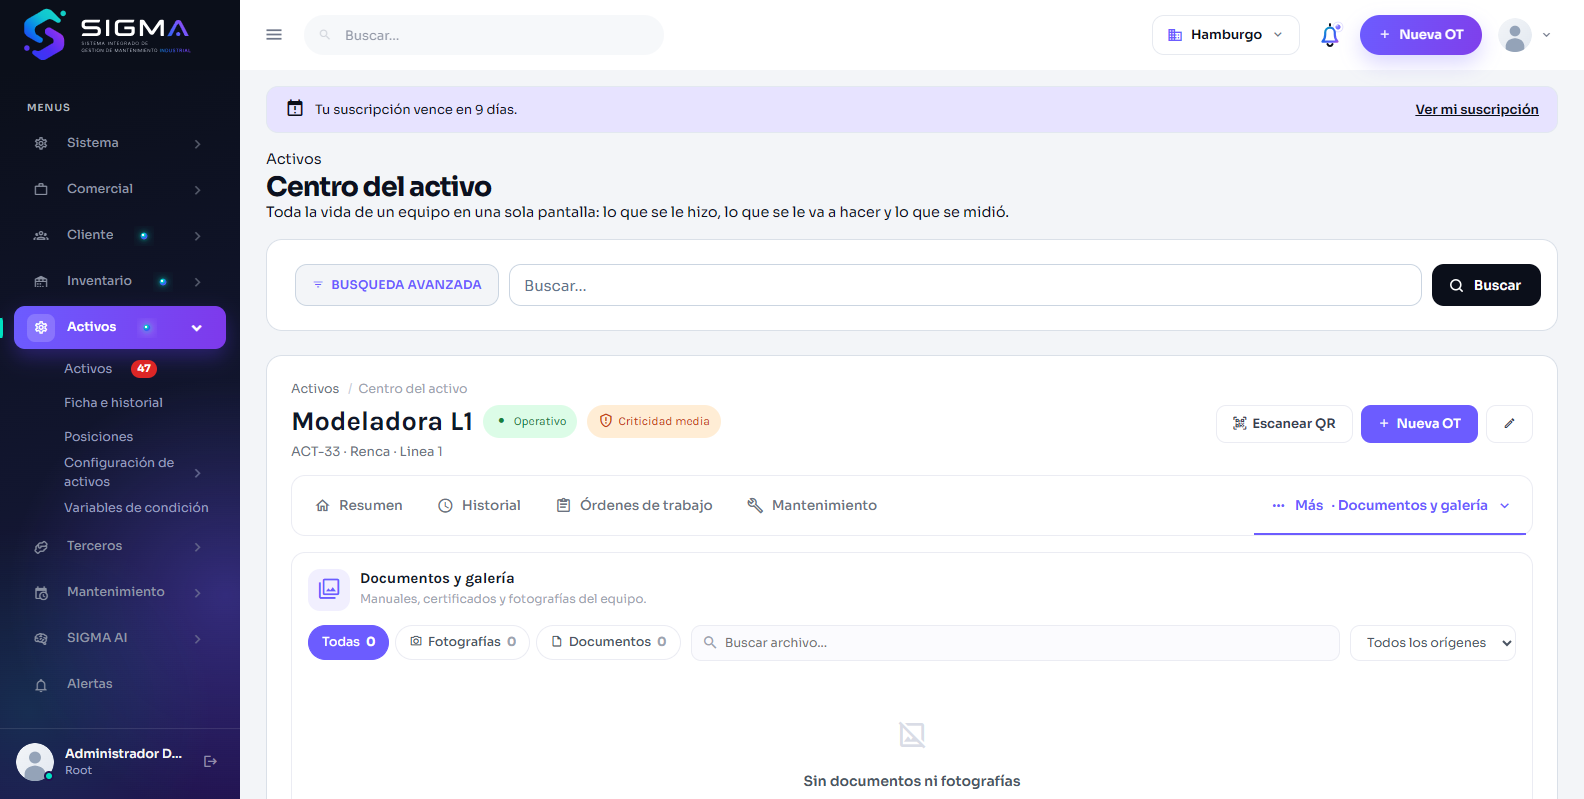
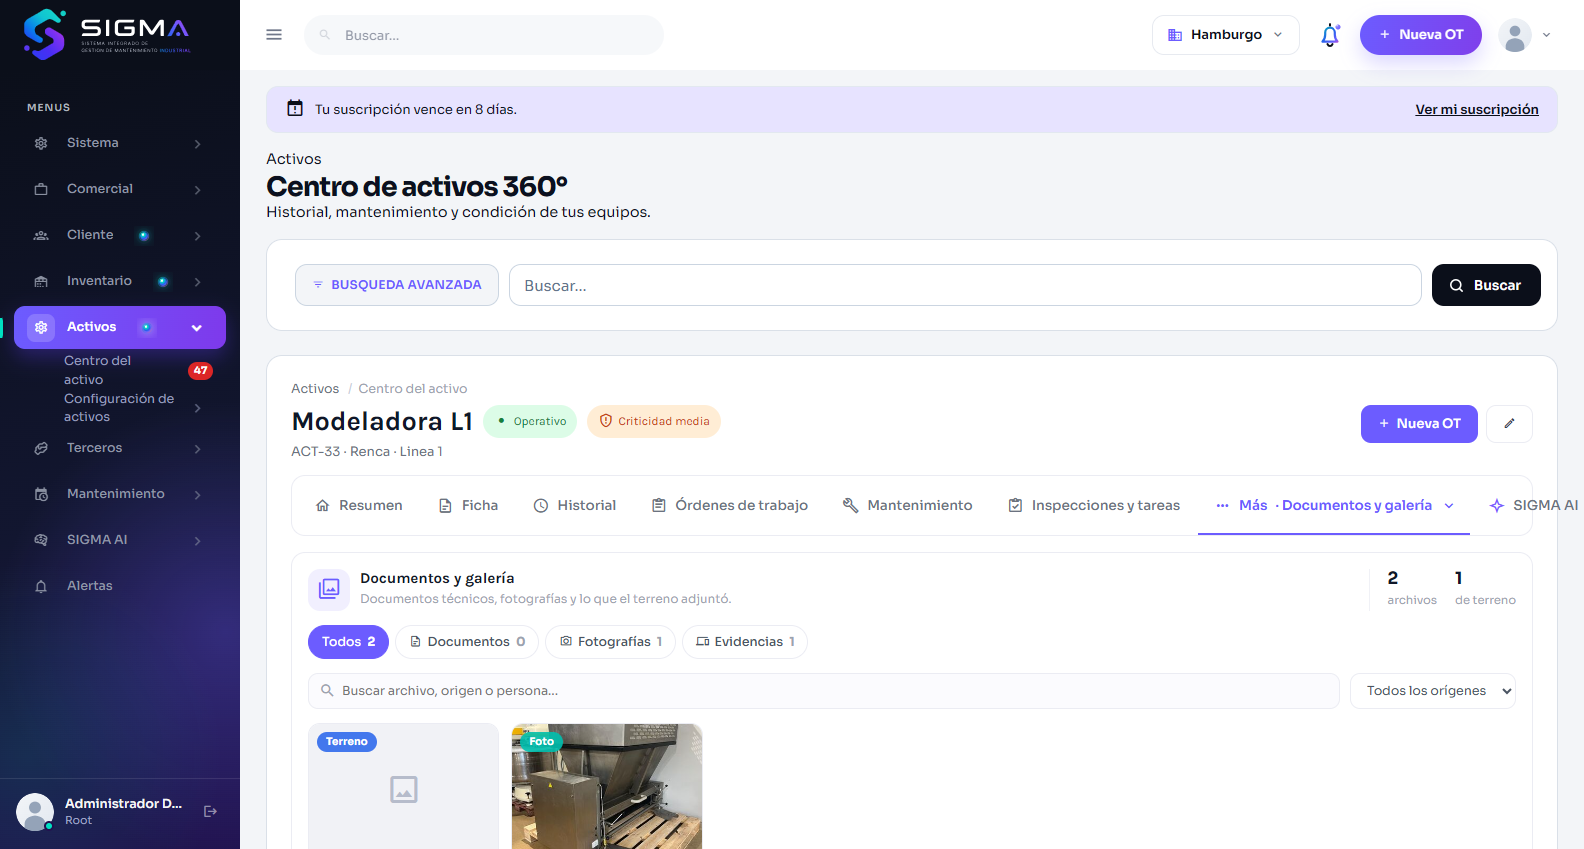
Documentos y galeria: tres vistas por lo que son los archivos
Un manual y la foto de una correa rota son dos cosas distintas aunque las
dos sean archivos: el manual se busca una vez y se lee; la foto es prueba
de algo que paso un dia. Separarlos por "imagen" y "documento" dejaba el
manual escaneado junto a las evidencias, asi que ahora son tres vistas:
Documentos, Fotografias y Evidencias -lo que llego desde terreno-.

Cada miniatura lleva su etiqueta de origen encima: en una grilla de doce
fotos, leer doce pies para encontrar la de la OT es justo lo que se
quiere evitar. El panel del costado muestra el archivo elegido con su
origen, su fecha, quien lo subio y acceso a la orden que lo trajo; la
foto se amplia con el mismo visor. Abajo, la misma lista en tabla, que es
como se busca un documento por nombre.

El clic se escucha con addEventListener y no con onclick: sigma-orden.js
ya usa el suyo para abrir el visor, y pisarselo habria dejado la galeria
de la orden sin visor.

Ademas: la lista de equipos tenia DOS buscadores -el de busqueda avanzada
y uno propio-. Queda el de arriba; dos cajas que buscan lo mismo son dos
formas de equivocarse.

Evidencia: ui_a360_documentos.png y ui_lista_activos.png en
Fase 2/Pruebas/capturas/S3.

diff --git a/Web/Intranet/Js/sigma-activo360.js b/Web/Intranet/Js/sigma-activo360.js
@@ -674,6 +674,124 @@
         __doPostBack('', '');
     }
 
+    /* ---- Documentos y galeria ----
+
+       Tres vistas por lo que SON los archivos -documento, fotografia,
+       evidencia de terreno- y un panel al lado con el elegido. El visor de
+       imagen sigue siendo el de sigma-orden.js: aca se escucha el clic con
+       addEventListener para no pisarle el suyo. */
+    function documentos() {
+        var tarjetas = document.querySelectorAll('.sg-a3-docs .sg-ot-ev-card');
+        if (!tarjetas.length) return;
+
+        var chips = document.querySelectorAll('#sgDocChips a[data-doc]');
+        var buscar = document.getElementById('sgDocBuscar');
+        var origen = document.getElementById('sgDocOrigen');
+        var detalle = document.getElementById('sgOtEvDetalle');
+        var filas = document.querySelectorAll('.sg-doc-fila');
+
+        /* El desplegable se arma con los origenes que REALMENTE hay: ofrecer
+           una orden que no adjunto nada devuelve vacio y parece roto. */
+        if (origen && origen.options.length <= 1) {
+            var vistos = {};
+
+            for (var i = 0; i < tarjetas.length; i++) {
+                var o = tarjetas[i].getAttribute('data-paso');
+                if (!o || vistos[o]) continue;
+                vistos[o] = true;
+
+                var op = document.createElement('option');
+                op.value = o;
+                op.textContent = o;
+                origen.appendChild(op);
+            }
+        }
+
+        function filtrar() {
+            var activa = document.querySelector('#sgDocChips a.es-activa');
+            var clase = activa ? activa.getAttribute('data-doc') : 'todos';
+            var texto = (buscar && buscar.value || '').toLowerCase().trim();
+            var deQuien = origen ? origen.value : '';
+
+            function calza(el, claseAttr, textoAttr, origenAttr) {
+                return (clase === 'todos' || el.getAttribute(claseAttr) === clase)
+                    && (texto === '' || (el.getAttribute(textoAttr) || '').indexOf(texto) !== -1)
+                    && (deQuien === '' || (el.getAttribute(origenAttr) || '') === deQuien);
+            }
+
+            for (var i = 0; i < tarjetas.length; i++)
+                tarjetas[i].classList.toggle('es-oculta',
+                    !calza(tarjetas[i], 'data-doc-clase', 'data-buscar', 'data-paso'));
+
+            for (var f = 0; f < filas.length; f++)
+                filas[f].classList.toggle('es-oculta',
+                    !calza(filas[f], 'data-doc-clase', 'data-doc-txt', 'data-doc-origen'));
+        }
+
+        function dato(etiqueta, valor) {
+            if (!valor) return '';
+            var d = document.createElement('div');
+            d.className = 'sg-ot-dato';
+            d.innerHTML = '<div><span class="sg-ot-dato-etq"></span><span class="sg-ot-dato-val"></span></div>';
+            d.querySelector('.sg-ot-dato-etq').textContent = etiqueta;
+            d.querySelector('.sg-ot-dato-val').textContent = valor;
+            return d.outerHTML;
+        }
+
+        function pintar(card) {
+            if (!detalle) return;
+
+            var d = function (n) { return card.getAttribute('data-' + n) || ''; };
+            var esImagen = d('imagen') === '1';
+
+            var html = '<header class="sg-ot-card-cab"><span class="sg-ot-card-ico">' +
+                       '<i class="mdi ' + (esImagen ? 'mdi-image-outline' : 'mdi-file-document-outline') + '"></i></span>' +
+                       '<div><h3>Archivo</h3></div></header>';
+
+            if (esImagen) html += '<span class="sg-doc-det-foto"><img alt="" /></span>';
+
+            html += '<div class="sg-doc-det-nom"></div>';
+            html += dato('Origen', d('paso-txt'));
+            html += dato('Fecha', d('fecha'));
+            html += dato('Subido por', d('usuario'));
+            html += dato('Descripción', d('obs'));
+
+            html += '<a class="sg-ot-btn es-accion" href="' + d('url') + '" target="_blank" rel="noopener">' +
+                    '<i class="mdi mdi-open-in-new"></i>Abrir original</a>';
+
+            if (d('orden'))
+                html += '<a class="sg-ot-btn es-accion" href="' + d('orden') + '" target="_blank" rel="noopener">' +
+                        '<i class="mdi mdi-clipboard-text-outline"></i>Abrir la orden</a>';
+
+            detalle.innerHTML = html;
+            detalle.querySelector('.sg-doc-det-nom').textContent = d('titulo');
+
+            var img = detalle.querySelector('.sg-doc-det-foto img');
+            if (img) {
+                img.src = d('url');
+                img.alt = d('titulo');
+                img.onclick = function () { ampliar(d('url'), d('titulo')); };
+            }
+        }
+
+        for (var i = 0; i < tarjetas.length; i++)
+            tarjetas[i].addEventListener('click', function () { pintar(this); });
+
+        for (var c = 0; c < chips.length; c++)
+            chips[c].onclick = function (ev) {
+                ev.preventDefault();
+                for (var k = 0; k < chips.length; k++) chips[k].classList.remove('es-activa');
+                this.classList.add('es-activa');
+                filtrar();
+            };
+
+        if (buscar) buscar.oninput = filtrar;
+        if (origen) origen.onchange = filtrar;
+
+        filtrar();
+        pintar(tarjetas[0]);
+    }
+
     function armar() {
         navegacion();
         ficha();
@@ -681,6 +799,7 @@
         condicion();
         fallas();
         lista();
+        documentos();
         ordenes();
         revisiones();
         ampliables();

diff --git a/Web/Intranet/Css/LookAndFeel/sigma-activo360.css b/Web/Intranet/Css/LookAndFeel/sigma-activo360.css
@@ -1069,3 +1069,37 @@ a.sg-a3-cond-card:hover { background: var(--sg-surface-subtle); }
     color: #fff;
 }
 .sg-lista-paginas span { align-self: center; color: var(--sg-tenue); padding: 0 2px; }
+
+/* ---- Documentos y galeria ------------------------------------------------ */
+.sg-doc-badge {
+    position: absolute;
+    left: 8px;
+    top: 8px;
+    padding: 2px 9px;
+    border-radius: 999px;
+    font-size: 10.5px;
+    font-weight: 700;
+    background: rgba(15, 23, 42, .72);
+    color: #fff;
+}
+.sg-doc-badge.es-evidencia { background: rgba(37, 99, 235, .85); }
+.sg-doc-badge.es-fotografia { background: rgba(0, 191, 174, .9); }
+
+.sg-ot-ev-card { position: relative; }
+.sg-ot-ev-card.es-oculta { display: none; }
+
+.sg-doc-cab,
+.sg-doc-fila { grid-template-columns: minmax(180px, 2fr) 130px minmax(140px, 1.3fr) 120px 140px 100px 110px; }
+.sg-doc-fila.es-oculta { display: none; }
+
+/* El detalle del archivo elegido, al lado de la grilla. */
+.sg-doc-det-foto {
+    display: block;
+    width: 100%;
+    max-height: 220px;
+    border-radius: 11px;
+    overflow: hidden;
+    background: var(--sg-surface-subtle);
+}
+.sg-doc-det-foto img { width: 100%; height: 100%; object-fit: cover; display: block; cursor: zoom-in; }
+.sg-doc-det-nom { font-size: 14px; font-weight: 700; color: var(--sg-texto); word-break: break-all; }

diff --git a/Web/Intranet/View/Activos/Ficha/ActivoFicha.aspx.cs b/Web/Intranet/View/Activos/Ficha/ActivoFicha.aspx.cs
@@ -1447,44 +1447,73 @@ public partial class View_Activos_Ficha_ActivoFicha : System.Web.UI.Page
     ///   Los archivos viven en Blob Storage: aca solo viaja el id, y la imagen
     ///   se pide por VerArchivo.aspx con ese id cifrado.
     /// </summary>
+    /// <summary>
+    /// Todo lo que hay del equipo en archivos: sus documentos, sus fotos y lo
+    /// que el terreno adjuntó en sus ordenes, inspecciones y tareas.
+    ///
+    /// TRES VISTAS POR LO QUE SON, NO POR SU EXTENSION
+    ///   Un manual y la foto de una correa rota son dos cosas distintas
+    ///   aunque las dos sean archivos: el manual se busca una vez y se lee;
+    ///   la foto es prueba de algo que paso un dia. Separarlas por "imagen" y
+    ///   "documento" deja el manual escaneado junto a las evidencias.
+    ///
+    ///   Los archivos viven en Blob Storage: aca solo viaja el id, y la
+    ///   imagen se pide por VerArchivo.aspx con ese id cifrado.
+    /// </summary>
     private void Documentos(Activo a)
     {
         List<ActivoArchivoOrigen> archivos = new ActivoArchivoController().GetTodos(a.act_id, _cliente)
                                              ?? new List<ActivoArchivoOrigen>();
 
+        int evidencias = archivos.Count(x => x.es_evidencia);
+        int fotos = archivos.Count(x => x.es_imagen && !x.es_evidencia);
+        int documentos = archivos.Count(x => !x.es_imagen && !x.es_evidencia);
+
         litEvTodas.Text = archivos.Count.ToString();
-        litEvFotos.Text = archivos.Count(x => x.es_imagen).ToString();
-        litEvDocs.Text = archivos.Count(x => !x.es_imagen).ToString();
+        litEvDocs.Text = documentos.ToString();
+        litEvFotos.Text = fotos.ToString();
+        litEvEvidencias.Text = evidencias.ToString();
 
         pnlSinArchivos.Visible = archivos.Count == 0;
-
-        int evidencias = archivos.Count(x => x.es_evidencia);
 
         litDocConteos.Text =
             "<div class=\"sg-ot-card-acc sg-ot-avance\">" +
             "<div class=\"sg-ot-avance-num\"><strong>" + archivos.Count + "</strong><span>archivos</span></div>" +
             "<div class=\"sg-ot-avance-num\"><strong>" + evidencias + "</strong><span>de terreno</span></div></div>";
 
+        if (archivos.Count == 0)
+        {
+            litArchivos.Text = "";
+            litDocTabla.Text = "";
+            return;
+        }
+
         StringBuilder s = new StringBuilder();
+        StringBuilder tabla = new StringBuilder();
+
+        tabla.Append("<div class=\"sg-a3-tabla-cab sg-doc-cab\">")
+             .Append("<span>Nombre</span><span>Tipo</span><span>Origen</span>")
+             .Append("<span>Fecha</span><span>Quién</span><span>Tamaño</span><span></span></div>");
 
         foreach (ActivoArchivoOrigen f in archivos)
         {
-            string tipo = f.es_imagen ? "imagen" : "documento";
+            string clase = f.es_evidencia ? "evidencia" : (f.es_imagen ? "fotografia" : "documento");
             string url = UrlArchivo.Ver(f.arc_id);
+            string buscar = (Texto(f.nombre) + " " + Texto(f.origen_etiqueta) + " " + Texto(f.usuario)).ToLower();
 
-            /* data-paso alimenta el desplegable de origen de la galeria: el
-               mismo JS que en la orden de trabajo, con otra pregunta. */
-            s.Append("<article class=\"sg-ot-ev-card\" data-tipo=\"").Append(tipo)
+            // ---- la tarjeta de la galeria ----
+            s.Append("<article class=\"sg-ot-ev-card\" data-tipo=\"").Append(f.es_imagen ? "imagen" : "documento")
+             .Append("\" data-doc-clase=\"").Append(clase)
              .Append("\" data-paso=\"").Append(Server.HtmlEncode(Texto(f.origen_etiqueta)))
              .Append("\" data-paso-txt=\"").Append(Server.HtmlEncode(Texto(f.origen_etiqueta)))
              .Append("\" data-paso-etq=\"Origen\"")
-             .Append(" data-buscar=\"")
-             .Append(Server.HtmlEncode((Texto(f.nombre) + " " + Texto(f.origen_etiqueta) + " " + Texto(f.usuario)).ToLower()))
+             .Append(" data-buscar=\"").Append(Server.HtmlEncode(buscar))
              .Append("\" data-url=\"").Append(url)
              .Append("\" data-titulo=\"").Append(Server.HtmlEncode(f.etiqueta))
              .Append("\" data-usuario=\"").Append(Server.HtmlEncode(Texto(f.usuario)))
              .Append("\" data-fecha=\"").Append(f.fecha == null ? "" : f.fecha.Value.ToString("dd MMM yyyy · HH:mm"))
              .Append("\" data-obs=\"").Append(Server.HtmlEncode(Texto(f.descripcion)))
+             .Append("\" data-orden=\"").Append(f.orden_id == null ? "" : UrlOrden(f.orden_id.Value))
              .Append("\" data-icono=\"").Append(f.es_imagen ? "mdi-image-outline" : "mdi-file-document-outline")
              .Append("\" data-imagen=\"").Append(f.es_imagen ? "1" : "0").Append("\">");
 
@@ -1493,6 +1522,14 @@ public partial class View_Activos_Ficha_ActivoFicha : System.Web.UI.Page
                 s.Append("<img src=\"").Append(url).Append("\" alt=\"").Append(Server.HtmlEncode(f.etiqueta)).Append("\" />");
             else
                 s.Append("<i class=\"mdi mdi-file-document-outline sg-ot-ev-icono\"></i>");
+
+            /* La etiqueta de donde vino va sobre la miniatura: en una grilla
+               de doce fotos, leer doce pies para encontrar la de la OT es
+               justo lo que se quiere evitar. */
+            s.Append("<span class=\"sg-doc-badge es-").Append(clase).Append("\">")
+             .Append(clase == "evidencia" ? "Terreno" : (clase == "fotografia" ? "Foto" : "Documento"))
+             .Append("</span>");
+
             s.Append("</span>");
 
             s.Append("<div class=\"sg-ot-ev-txt\"><span class=\"sg-ot-ev-nom\">")
@@ -1501,9 +1538,36 @@ public partial class View_Activos_Ficha_ActivoFicha : System.Web.UI.Page
              .Append(Server.HtmlEncode(Texto(f.origen_etiqueta)))
              .Append(f.bytes > 0 ? " · " + Tamano(f.bytes) : "")
              .Append("</span></div></article>");
+
+            // ---- su fila en la tabla ----
+            tabla.Append("<div class=\"sg-a3-tabla-fila sg-doc-fila\" data-doc-clase=\"").Append(clase)
+                 .Append("\" data-doc-txt=\"").Append(Server.HtmlEncode(buscar))
+                 .Append("\" data-doc-origen=\"").Append(Server.HtmlEncode(Texto(f.origen_etiqueta))).Append("\">")
+
+                 .Append("<span class=\"c-cod\">").Append(Server.HtmlEncode(f.etiqueta))
+                 .Append("<span>").Append(Server.HtmlEncode(Texto(f.descripcion))).Append("</span></span>")
+
+                 .Append("<span class=\"c-dato\"><span class=\"sg-ot-chip ")
+                 .Append(clase == "evidencia" ? "es-info" : (clase == "fotografia" ? "es-tarea" : "es-neutro"))
+                 .Append("\">")
+                 .Append(clase == "evidencia" ? "Evidencia" : (clase == "fotografia" ? "Fotografía" : "Documento"))
+                 .Append("</span></span>")
+
+                 .Append("<span class=\"c-dato\">").Append(Server.HtmlEncode(Texto(f.origen_etiqueta))).Append("</span>")
+                 .Append("<span class=\"c-dato\">")
+                 .Append(f.fecha == null ? "—" : f.fecha.Value.ToString("dd MMM yyyy")).Append("</span>")
+                 .Append("<span class=\"c-dato\">").Append(Server.HtmlEncode(Texto(f.usuario))).Append("</span>")
+                 .Append("<span class=\"c-dato\">").Append(f.bytes > 0 ? Tamano(f.bytes) : "—").Append("</span>")
+
+                 .Append("<span class=\"c-acc\">")
+                 .Append("<a class=\"sg-ot-btn es-accion\" href=\"").Append(url)
+                 .Append("\" target=\"_blank\" rel=\"noopener\">Ver<i class=\"mdi mdi-open-in-new\"></i></a>")
+                 .Append("</span>")
+                 .Append("</div>");
         }
 
         litArchivos.Text = s.ToString();
+        litDocTabla.Text = tabla.ToString();
     }
 
     private static string Tamano(long bytes)
